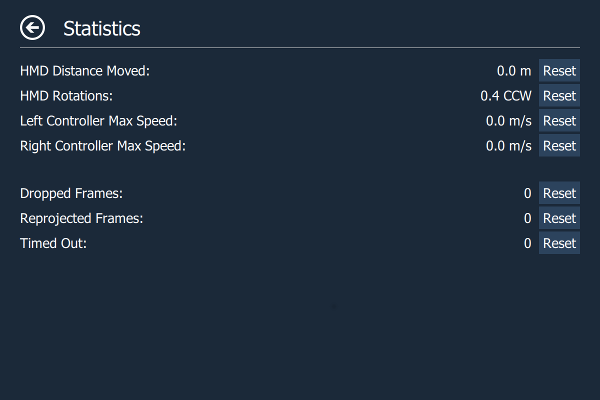
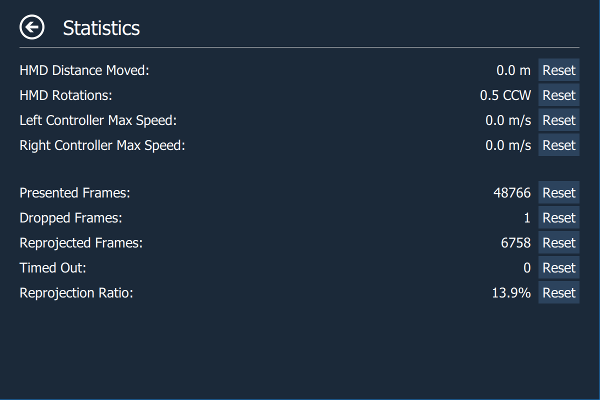
Updated readme. Updated version to 2.3. Some bug-fixes and improvements.

diff --git a/bin/win64/res/qml/RootPage.qml b/bin/win64/res/qml/RootPage.qml
@@ -432,7 +432,7 @@ MyStackViewPage {
    Connections {
        target: SettingsTabController
        onForceRevivePageChanged: {
-           reviveButton.enabled = SettingsTabController.forceRevivePage
+           reviveButton.visible = SettingsTabController.forceRevivePage ? true : ReviveTabController.isOverlayInstalled
        }
    }
 

diff --git a/src/tabcontrollers/ReviveTabController.cpp b/src/tabcontrollers/ReviveTabController.cpp
@@ -631,10 +631,12 @@ namespace advsettings {
 			LOG(WARNING) << "Could not remove \"revive::" << key_toggleGrip << "\" setting: " << vr::VRSettings()->GetSettingsErrorNameFromEnum(vrSettingsError);
 		}
 
-		vr::VRSettings()->RemoveKeyInSection(section_revive, key_toggleDelay, &vrSettingsError);
+		// This setting has no default value listed in Revive's default.vrsettings yet.
+		/*vr::VRSettings()->RemoveKeyInSection(section_revive, key_toggleDelay, &vrSettingsError);
 		if (vrSettingsError != vr::VRSettingsError_None) {
 			LOG(WARNING) << "Could not remove \"revive::" << key_toggleDelay << "\" setting: " << vr::VRSettings()->GetSettingsErrorNameFromEnum(vrSettingsError);
-		}
+		}*/
+		setToggleDelay(0.5f);
 
 		vr::VRSettings()->RemoveKeyInSection(section_revive, key_thumbDeadzone, &vrSettingsError);
 		if (vrSettingsError != vr::VRSettingsError_None) {

diff --git a/src/overlaycontroller.h b/src/overlaycontroller.h
@@ -45,7 +45,7 @@ class OverlayController : public QObject {
 public:
 	static constexpr const char* applicationKey = "matzman666.AdvancedSettings";
 	static constexpr const char* applicationName = "Advanced Settings";
-	static constexpr const char* applicationVersionString = "v2.2.1";
+	static constexpr const char* applicationVersionString = "v2.3";
 
 private:
 	vr::VROverlayHandle_t m_ulOverlayHandle = vr::k_ulOverlayHandleInvalid;

diff --git a/Readme.md b/Readme.md
@@ -16,6 +16,7 @@ Adds an overlay to the OpenVR dashboard that allows access to advanced settings.
 - Temporarily move and rotate the playspace.
 - Floor height fix.
 - Displays several performance statistics and other statistics (e.g. headset rotations).
+- Select the playback/mirror/recording audio device
 - Mute/unmute and set volume of audio mirror device.
 - Mute/unmute and set volume of microphone device.
 - Implements push-to-talk and allows to configure push-to-talk profiles.
@@ -23,6 +24,7 @@ Adds an overlay to the OpenVR dashboard that allows access to advanced settings.
 - Revive settings support (Requires [Revive 1.0.4+](https://github.com/LibreVR/Revive) for full functionality).
 - VR Keyboard Input Utilities
 - Simple Alarm Clock
+- Player height adjust toggle (Credits to mklim)
 
 # Usage
 
@@ -97,8 +99,9 @@ Allows you to fix the height of your floor. Just place one controller on your fl
 
 ![Audio Page](https://raw.githubusercontent.com/matzman666/OpenVR-AdvancedSettings/master/docs/screenshots/AudioPage.png)
 
-- **Mirror Device**: Allows to set the volume of the audio mirror device and to mute/unmute it.
-- **Microphone**: Allows to set the volume of the microphone device and to mute/unmute it.
+- **Playback Device**: Allows to select the playback device.
+- **Mirror Device**: Allows to select the mirror device, set its volume and to mute/unmute it.
+- **Microphone**: Allows to select the microphone device, set its volume and to mute/unmute it.
 - **Push-to-Talk**: Enable/disable push-to-talk. When push-to-talk is activated the microphone gets muted unless one of the configured buttons is pressed on one of the configured controllers.
 - **Left Controller**: Configure the left controller for push-to-talk.
 - **Right Controller**: Configure the right controller for push-to-talk.
@@ -133,6 +136,14 @@ Any changes to controller settings are immediately applied by Revive (Requires R
 
 - **Alarm Clock:** Just a simple alarm clock so you don't miss important appointments. VR can sure mess up perception of time. Does not work in desktop mode.
 
+- **Steam Desktop Overlay Width:** Allows to increase the size of the Steam desktop overlay. Useful for multi-monitor setups.
+
+## - Accessibility Page:
+
+![Accessibility Page](https://raw.githubusercontent.com/matzman666/OpenVR-AdvancedSettings/master/docs/screenshots/AccessibilityPage.png)
+
+- **Adjust Player Height:** Offsets the player height to allows short or wheelchair-bound players to fully interact with height-limited applications by both boosting their height and being able to touch the in-game floor when necessary by pressing a configurable motion controller button.
+
 ## - Statistics Page:
 
 ![Statistics Page](https://raw.githubusercontent.com/matzman666/OpenVR-AdvancedSettings/master/docs/screenshots/StatisticsPage.png)
@@ -141,9 +152,11 @@ Any changes to controller settings are immediately applied by Revive (Requires R
 - **HMD Rotations**: Shows the number of rotations around the y-axis (Useful for untangling the cord).
 - **Left Controller Max Speed**: Shows the max speed of the left controller.
 - **Right Controller Max Speed**: Shows the max speed of the right controller.
+- **Presented Frames**: Number of frames presented to the hmd in the currently running application.
 - **Dropped Frames**: Number of frames dropped in the currently running application.
 - **Reprojected Frames**: Number of frames reprojected in the currently running application.
-- **Reprojected Frames**: Number of times the currently running application timed out.
+- **Timed Out**: Number of times the currently running application timed out.
+- **Reprojection Ratio**: Ratio of presented frames to reprojected frames.
 
 ## - Settings Page:
 
@@ -151,6 +164,11 @@ Any changes to controller settings are immediately applied by Revive (Requires R
 
 - **Autostart:** Allows you to enable/disable auto start.
 - **Force Revive Page:** Force the Revive page button on the root page to be visible.
+
+# How to Compile
+
+- Use the Qt addon for Visual Studio to create a Visual Studio project from the .pro file.
+- Execute bin/windeployqt.bat which copies all Qt files necessary for execution into the output directory.
 
 # Notes:
 
